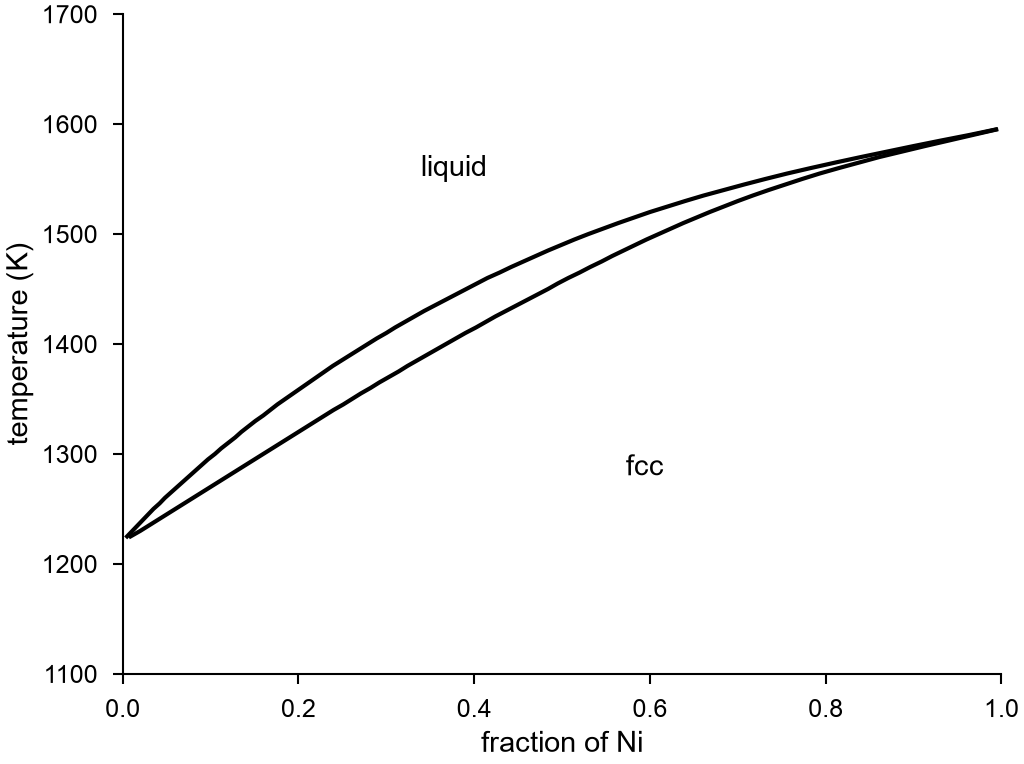
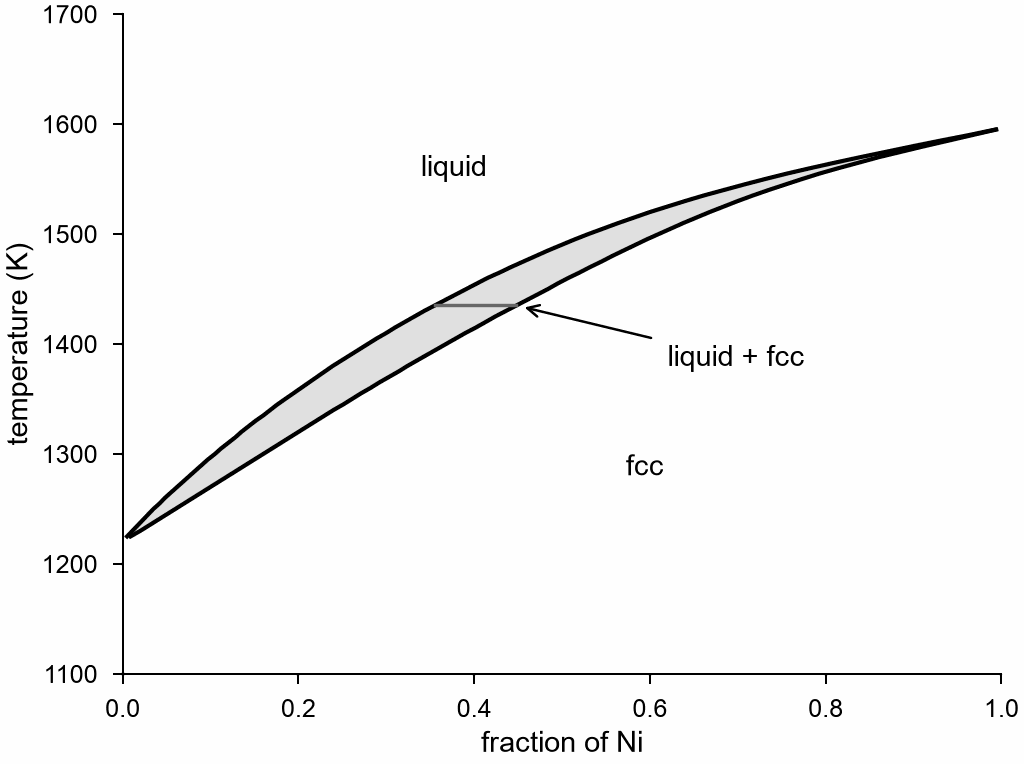
Phase diagrams: what the region between the liquidus and the solidus is, shaded and named, with its widest tie line

diff --git a/docs/user-guide/simulation/phase-diagram.md b/docs/user-guide/simulation/phase-diagram.md
@@ -44,7 +44,8 @@ diagram.phases_at(1400.0, 0.5)  # the stable phases, one or two
 diagram.tie_lines[0]  # which two phases, at which fractions
 ```
 
-The diagram, with `plot.phase_diagram`:
+The diagram, with `plot.phase_diagram`, the region where two phases coexist shaded
+from its tie lines, and its widest tie line:
 
 <!-- skip-test -->
 ```python
@@ -53,6 +54,23 @@ from mdapy.visualization import plot
 with plot.style():
     fig, ax = plot.figure("single")
     plot.phase_diagram(diagram, ax=ax)
+    ties = diagram.tie_lines
+    ax.fill_betweenx(
+        [t.temperature for t in ties],
+        [t.first_fraction for t in ties],
+        [t.second_fraction for t in ties],
+        color="0.88",
+        lw=0,
+    )
+    widest = max(ties, key=lambda t: t.second_fraction - t.first_fraction)
+    ax.plot([widest.first_fraction, widest.second_fraction], [widest.temperature] * 2,
+            color="0.4", lw=0.8)  # fmt: skip
+    ax.annotate(
+        "liquid + fcc",
+        (widest.second_fraction, widest.temperature),
+        (0.62, 1380),
+        arrowprops=dict(arrowstyle="->", lw=0.6),
+    )
     plot.save(fig, "images/phase-diagram", formats=("png",))
 ```
 
@@ -65,6 +83,18 @@ interface of NEP, 2048 atoms at five compositions: a solid solution at all
 compositions below a lens, as in the experiments. The model melts its elements lower
 than the experiments do: copper at 1220 K against 1358 K, nickel at 1590 K against
 1728 K.*
+
+The two lines are the liquidus, above which the alloy is all liquid, and the solidus,
+below which it is all crystal. Between them, inside the lens, the liquid and the
+crystal coexist: the free energy of the alloy is lowest as a mixture of a liquid of
+the fraction on the liquidus and crystals of the fraction on the solidus, the two ends
+of the tie line at that temperature, in amounts given by the lever rule. On the widest
+tie line, at 1435 K, an alloy of 40 % Ni is a liquid of 35.5 % Ni and crystals of
+44.8 % Ni, half of each. This region has no counterpart in the phase diagram of one element against
+pressure and temperature, where two phases coexist only on a line: with two elements at
+one pressure the fraction is one more variable, and two phases coexist over a range of
+fractions at each temperature. Only a pure element melts at one temperature, where the
+lines meet.
 
 | Name | Type | Default | Unit | Meaning |
 |---|---|---|---|---|
